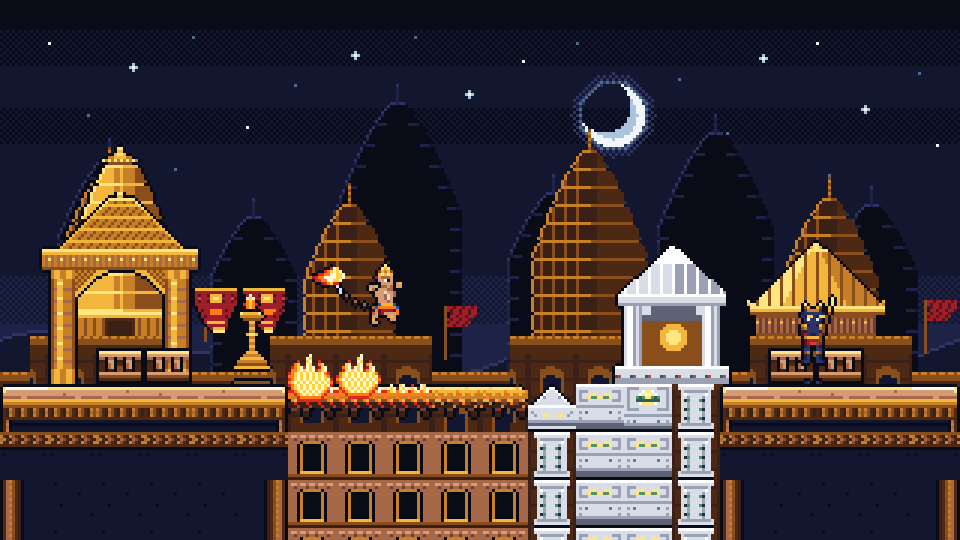
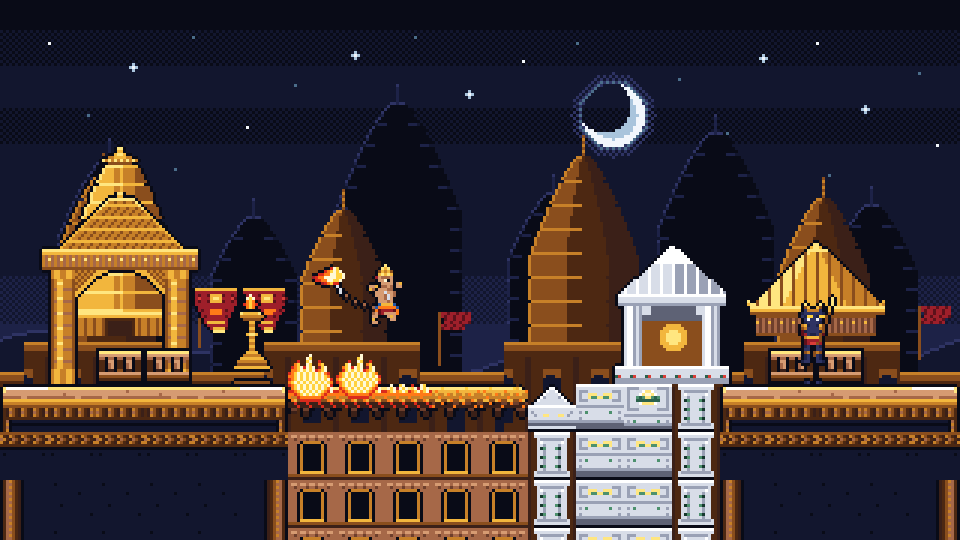
Replace pyramid level layout with Svarna Lanka palace terraces & pavilions

diff --git a/src/core/levelData.ts b/src/core/levelData.ts
@@ -20,11 +20,12 @@ const TILE_CHAR_MAP: Record<string, TileMaterial> = {
   'S': 'SACRED',
 };
 
-// 160 columns x 14 rows
-// Zone 1 (0-28): Palace Parapet Entry
-// Zone 2 (29-60): Banner Towers
-// Zone 3 (61-95): Archer Ridge
-// Zone 4 (96-122): Vibhishana's House & Ashoka Vatika
+// 160 columns x 14 rows — Clean horizontal Svarna Lanka terraces, 1-tile golden-eaved roofs,
+// hanging banner bridges, and moonlit marble/Ashoka sanctuary (matching ref_gameplay.png).
+// Zone 1 (0-28):   Palace Parapet Entry
+// Zone 2 (29-60):  Banner Towers
+// Zone 3 (61-95):  Archer Ridge
+// Zone 4 (96-122): Vibhishana's House & Ashoka Vatika (SACRED)
 // Zone 5 (123-159): Royal Armory Gauntlet & Sea-Cliff Exit
 
 const LEVEL_STRINGS: string[] = [
@@ -32,18 +33,18 @@ const LEVEL_STRINGS: string[] = [
   //0123456789012345678901234567890123456789012345678901234567890123456789012345678901234567890123456789012345678901234567890123456789012345678901234567890123456789
   '................................................................................................................................................................',
   '................................................................................................................................................................',
-  '.....................................................................................##.........SS..SS...............................................................', 
-  '....................#####..............##..BB..##.........##...............##.......####.......SSSSSSSS........##..BB..##.........................................', 
-  '.................###WWWWW###........####..BB..####.....####.............####.....##WWWW##...SS......SS.....####..BB..####.....####...............................', 
-  '..............###WWWWWWWWWWW###..###WWWW......WWWW###.#WWWW#.........#WWWW#..##WWWWWWWW##.S........S...##WWWW......WWWW##.##WWWW##.........##.................', 
-  '............##WWWWWWWWWWWWWWWW####WWWWWWWWWWWWWWWWWW##WWWWWWW##.....#WWWWWW###WWWWWWWWWWW#.S........S.##WWWWWWWWWWWWWWWW##WWWWWWWW###...####..BB..............', 
-  '..........##WWWWWWWWWWWWWWWWWWWWWWWWWWWWWWWWWWWWWWWWWWWWWWWWWWW##.##WWWWWWWWWWWWWWWWWWWWWW#S........S#WWWWWWWWWWWWWWWWWWWWWWWWWWWWWWWW###WWWW..BB..............', 
-  '........##WWWWWWWWWWWWWWWWWWWWWWWWWWWWWWWWWWWWWWWWWWWWWWWWWWWWWWW##WWWWWWWWWWWWWWWWWWWWWWWWSSSSSSSSSSSWWWWWWWWWWWWWWWWWWWWWWWWWWWWWWWWWWWWWWWW......BB..........', 
-  '......##WWWWWWWWWWWWWWWWWWWWWWWWWWWWWWWWWWWWWWWWWWWWWWWWWWWWWWWWWWWWWWWWWWWWWWWWWWWWWWWWWWW########WWWWWWWWWWWWWWWWWWWWWWWWWWWWWWWWWWWWWWWWWWWW......BB..........', 
-  '....##WWWWWWWWWWWWWWWWWWWWWWWWWWWWWWWWWWWWWWWWWWWWWWWWWWWWWWWWWWWWWWWWWWWWWWWWWWWWWWWWWWWW..........WWWWWWWWWWWWWWWWWWWWWWWWWWWWWWWWWWWWWWWWWWWWWW......BB......', 
-  '..####WWWWWWWWWWWWWWWWWWWWWWWWWWWWWWWWWWWWWWWWWWWWWWWWWWWWWWWWWWWWWWWWWWWWWWWWWWWWWWWWWWWW..........WWWWWWWWWWWWWWWWWWWWWWWWWWWWWWWWWWWWWWWWWWWWWWWWWW....BB..##', 
-  '####################################################################################################################################WWWWWWWWWWWWWWWWWW......##', 
-  '################################################################################################################################################################', 
+  '................................................................................................................................................................',
+  '................................................................................................................................................................',
+  '.........................................BBBBBB.........................BBBBBB...................................................BBBBBB.........................',
+  '...................WWWWWW..............##WWWWWW##.....WWWWWW..........##WWWWWW##....WWWWWW.....................................##WWWWWW##.....WWWWWW............',
+  '...................B....B..............B........B.....B....B..........B........B....B....B...........S.........S...............B........B.....B....B............',
+  '...................B....B.....WWWWWW...B........B..###WWWWWW###.......B........B..##WWWWWW##.......SSSSS.....SSSSS.......WWWWWWB........B..###WWWWWW###.........',
+  '...................B....B.....B....B.............###..........#.......#........#..#........#.........S.........S.........B....B#........#..#..........#.........',
+  '...................#....#.....B....B...#........#..#..........#WWWWWWW#........#..#........#WWWWWW...S.........S...WWWWWWB....B#........#..#..........#WWWWWW...',
+  '.........WWWWWWWWWW######.....#....#####.........###...........########........####........#######SSSSSSSSSSSSSSSSS######......#########..############......###.',
+  '#########..........######.....#...................................................................SSSSSSSSSSSSSSSSS..........................................###.',
+  '#########..........###############################################################################SSSSSSSSSSSSSSSSS##########################################.###.',
+  '#########..........###############################################################################SSSSSSSSSSSSSSSSS##########################################.###.',
 ];
 
 function parseLevelGrid(): TileMaterial[][] {
@@ -61,23 +62,23 @@ function parseLevelGrid(): TileMaterial[][] {
 }
 
 const ENEMY_SPAWNS: EnemySpawn[] = [
-  // Zone 2: First Guard patrol
-  { type: 'GUARD', tx: 38, ty: 5, patrolLeftTx: 34, patrolRightTx: 44 },
-  { type: 'GUARD', tx: 50, ty: 6, patrolLeftTx: 46, patrolRightTx: 56 },
+  // Zone 2: Guards patrolling terraces & towers (feet at ty + 1)
+  { type: 'GUARD', tx: 34, ty: 11, patrolLeftTx: 31, patrolRightTx: 38 },
+  { type: 'GUARD', tx: 54, ty: 6, patrolLeftTx: 51, patrolRightTx: 59 },
 
-  // Zone 3: Archers
-  { type: 'ARCHER', tx: 68, ty: 5, patrolLeftTx: 66, patrolRightTx: 72 },
-  { type: 'ARCHER', tx: 78, ty: 4, patrolLeftTx: 76, patrolRightTx: 82 },
-  { type: 'GUARD', tx: 85, ty: 5, patrolLeftTx: 82, patrolRightTx: 90 },
+  // Zone 3: Archers & Guard on ridge
+  { type: 'ARCHER', tx: 74, ty: 4, patrolLeftTx: 72, patrolRightTx: 77 },
+  { type: 'GUARD', tx: 66, ty: 11, patrolLeftTx: 62, patrolRightTx: 70 },
+  { type: 'ARCHER', tx: 86, ty: 6, patrolLeftTx: 84, patrolRightTx: 89 },
 
-  // Zone 4: Guards near sacred zone
-  { type: 'GUARD', tx: 95, ty: 3, patrolLeftTx: 92, patrolRightTx: 98 },
+  // Zone 4: Guard near entrance to Vibhishana's House (standing on row 9 awning)
+  { type: 'GUARD', tx: 94, ty: 8, patrolLeftTx: 92, patrolRightTx: 96 },
 
   // Zone 5: Gauntlet
-  { type: 'GUARD', tx: 130, ty: 6, patrolLeftTx: 126, patrolRightTx: 136 },
-  { type: 'ARCHER', tx: 138, ty: 5, patrolLeftTx: 136, patrolRightTx: 142 },
-  { type: 'GUARD', tx: 145, ty: 7, patrolLeftTx: 142, patrolRightTx: 150 },
-  { type: 'ARCHER', tx: 150, ty: 6, patrolLeftTx: 148, patrolRightTx: 154 },
+  { type: 'GUARD', tx: 132, ty: 4, patrolLeftTx: 129, patrolRightTx: 136 },
+  { type: 'ARCHER', tx: 147, ty: 6, patrolLeftTx: 144, patrolRightTx: 151 },
+  { type: 'GUARD', tx: 143, ty: 9, patrolLeftTx: 140, patrolRightTx: 148 },
+  { type: 'ARCHER', tx: 157, ty: 9, patrolLeftTx: 156, patrolRightTx: 158 },
 ];
 
 export function getLevel1(): LevelDef {
@@ -85,8 +86,8 @@ export function getLevel1(): LevelDef {
     cols: LEVEL_COLS,
     rows: LEVEL_ROWS,
     grid: parseLevelGrid(),
-    playerStartTx: 4,
-    playerStartTy: 10,
+    playerStartTx: 3,
+    playerStartTy: 11,
     exitTxMin: 156,
     exitTxMax: 159,
     enemies: ENEMY_SPAWNS,

diff --git a/src/game/scenes/PlayScene.ts b/src/game/scenes/PlayScene.ts
@@ -121,9 +121,9 @@ export class PlayScene extends Phaser.Scene {
   private buildDecorativeLandmarks(): void {
     const grid = this.levelDef.grid;
 
-    // ── Depth 25: Golden Shikhara Temples & Curved Golden Roof Domes behind terraces ──
+    // ── Depth 25: Golden Shikhara Temples & Curved Golden Roof Domes rising behind terraces ──
     const shikharas: [number, number][] = [
-      [10, 10], [21, 3], [43, 4], [55, 6], [71, 5], [89, 5], [133, 6], [149, 7],
+      [13, 10], [22, 10], [45, 10], [56, 12], [75, 9], [90, 10], [134, 10], [150, 12],
     ];
     for (const [tx, ty] of shikharas) {
       this.add.image(tx * TILE_SIZE, ty * TILE_SIZE, 'props_lanka', 'props_lanka 8.aseprite')
@@ -132,7 +132,7 @@ export class PlayScene extends Phaser.Scene {
     }
 
     const roofDomes: [number, number][] = [
-      [16, 10], [31, 6], [49, 6], [64, 5], [80, 4], [126, 6], [141, 6],
+      [5, 11], [34, 10], [66, 9], [85, 10], [126, 10], [142, 10],
     ];
     for (const [tx, ty] of roofDomes) {
       this.add.image(tx * TILE_SIZE, ty * TILE_SIZE, 'props_lanka', 'props_lanka 9.aseprite')
@@ -140,9 +140,39 @@ export class PlayScene extends Phaser.Scene {
         .setDepth(26);
     }
 
-    // ── Depth 30: Torana Archways, Balustrades, Pillars, Jali Windows & Sconces ──
+    // ── Depth 28: Carved supporting sandstone pillars under raised WOOD_ROOF pavilions ──
+    for (let ty = 4; ty < 11; ty++) {
+      for (let tx = 0; tx < this.levelDef.cols; tx++) {
+        if (grid[ty][tx] !== 'WOOD_ROOF') continue;
+        const leftW = tx > 0 ? grid[ty][tx - 1] : 'EMPTY';
+        const rightW = tx < this.levelDef.cols - 1 ? grid[ty][tx + 1] : 'EMPTY';
+        const isEdge = leftW !== 'WOOD_ROOF' || rightW !== 'WOOD_ROOF';
+        if (!isEdge) continue;
+
+        // Only place pillars if there is a solid STONE/SACRED floor below within rows ty+1..13
+        let floorTy = -1;
+        for (let py = ty + 1; py < this.levelDef.rows; py++) {
+          const m = grid[py][tx];
+          if (m === 'STONE' || m === 'SACRED') {
+            floorTy = py;
+            break;
+          }
+          if (m !== 'EMPTY' && m !== 'BANNER') break;
+        }
+        if (floorTy <= ty + 1) continue;
+
+        for (let py = ty + 1; py < floorTy; py++) {
+          const pCol = py === ty + 1 ? 2 : (py === floorTy - 1 ? 0 : 1);
+          this.add.image(tx * TILE_SIZE, py * TILE_SIZE, 'tileset_lanka', 4 * 16 + pCol)
+            .setOrigin(0, 0)
+            .setDepth(28);
+        }
+      }
+    }
+
+    // ── Depth 30: Torana Archways on open flat terraces & Stone Balustrade Railings ──
     const toranaPositions: [number, number][] = [
-      [2, 12], [58, 7], [123, 7],
+      [1, 11], [41, 10], [123, 10],
     ];
     for (const [tx, ty] of toranaPositions) {
       this.add.image(tx * TILE_SIZE, ty * TILE_SIZE, 'props_lanka', 'props_lanka 0.aseprite')
@@ -150,25 +180,16 @@ export class PlayScene extends Phaser.Scene {
         .setDepth(30);
     }
 
-    // Balustrade railings along open STONE parapet rooftops + jali windows & sconces on walls
+    // Balustrade railings along open flat STONE terraces (at least 3 wide)
     for (let ty = 1; ty < this.levelDef.rows; ty++) {
-      for (let tx = 0; tx < this.levelDef.cols; tx++) {
+      for (let tx = 6; tx < this.levelDef.cols - 5; tx++) {
         const mat = grid[ty][tx];
         const above = grid[ty - 1][tx];
-
-        if (mat === 'STONE' && above === 'EMPTY') {
-          // Place balustrade railing on flat stone roofs (skip enemy spawn spots & entry arch)
-          if (tx > 6 && tx < 154 && tx % 2 === 0 && (tx < 96 || tx > 112)) {
+        const left = grid[ty][tx - 1];
+        const right = grid[ty][tx + 1];
+        if (mat === 'STONE' && above === 'EMPTY' && left === 'STONE' && right === 'STONE') {
+          if (tx < 96 || tx > 119) {
             this.add.image(tx * TILE_SIZE, (ty - 1) * TILE_SIZE, 'tileset_lanka', 9)
-              .setOrigin(0, 0)
-              .setDepth(30);
-          }
-        }
-
-        // Hanging marigold vines along Ashoka Vatika & palace eaves
-        if ((mat === 'STONE' || mat === 'SACRED') && ty >= 3 && ty <= 6 && ty + 1 < this.levelDef.rows && grid[ty + 1][tx] === 'EMPTY') {
-          if (tx % 7 === 0) {
-            this.add.image(tx * TILE_SIZE, (ty + 1) * TILE_SIZE, 'tileset_lanka', 4 * 16 + 8)
               .setOrigin(0, 0)
               .setDepth(30);
           }
@@ -176,9 +197,9 @@ export class PlayScene extends Phaser.Scene {
       }
     }
 
-    // Standing brass diyas along parapets
+    // Standing brass diyas along terraces
     const diyaPositions: [number, number][] = [
-      [8, 12], [29, 6], [62, 5], [91, 4], [124, 6], [154, 11],
+      [7, 11], [27, 10], [64, 12], [93, 10], [125, 10], [154, 12],
     ];
     for (const [tx, ty] of diyaPositions) {
       const diya = this.add.sprite(tx * TILE_SIZE + 8, ty * TILE_SIZE, 'props_lanka')
@@ -187,14 +208,14 @@ export class PlayScene extends Phaser.Scene {
       diya.play('props_lanka:brass_diya');
     }
 
-    // Vibhishana's White Marble Sacred Shrine (Zone 4: cols 96..110)
-    this.add.image(99 * TILE_SIZE, 8 * TILE_SIZE, 'props_lanka', 'props_lanka 1.aseprite')
+    // Vibhishana's White Marble Sacred Shrine on the marble terrace (Zone 4: cols 96..118)
+    this.add.image(105 * TILE_SIZE, 10 * TILE_SIZE, 'props_lanka', 'props_lanka 1.aseprite')
       .setOrigin(0, 1)
       .setDepth(30);
 
     // Sea-Cliff Exit Torana Arch (Zone 5, foreground framing)
     const exitX = this.levelDef.exitTxMin * TILE_SIZE - 16;
-    const exitY = 12 * TILE_SIZE;
+    const exitY = 11 * TILE_SIZE;
     this.add.image(exitX, exitY, 'props_lanka', 'props_lanka 0.aseprite')
       .setOrigin(0, 1)
       .setDepth(80);
@@ -259,13 +280,14 @@ export class PlayScene extends Phaser.Scene {
     }
 
     if (mat === 'SACRED') {
-      // Top canopy/roof vs pillars & Ashoka foliage
-      if (ty <= 3) {
+      // Top Ashoka foliage canopies vs white marble terrace & lotus shrine base
+      if (ty <= 7) {
         if (left !== 'SACRED') return 3 * 16 + 4;  // Ashoka canopy L
         if (right !== 'SACRED') return 3 * 16 + 6; // Ashoka canopy R
         return 3 * 16 + 5;                         // Ashoka canopy M
       }
-      if (above === 'EMPTY') return 3 * 16 + 0;    // marble lotus roof
+      if (ty === 8 || ty === 9) return 3 * 16 + 7; // Ashoka tree trunk
+      if (ty === 10) return 3 * 16 + 0;            // marble lotus terrace top
       if (left !== 'SACRED' || right !== 'SACRED') return 3 * 16 + 1; // marble pillar
       return (tx + ty) % 3 === 0 ? 3 * 16 + 3 : 3 * 16 + 2; // lotus crest / floral plinth
     }
@@ -280,13 +302,6 @@ export class PlayScene extends Phaser.Scene {
       for (let tx = 0; tx < this.levelDef.cols; tx++) {
         const mat = this.levelDef.grid[ty][tx];
         if (mat === 'EMPTY') {
-          // Ground palace facade walls behind/under raised WOOD_ROOF pavilions so nothing looks like floating sticks
-          const above = ty > 0 ? this.levelDef.grid[ty - 1][tx] : 'EMPTY';
-          if (above === 'WOOD_ROOF' && ty >= 5 && ty <= 11) {
-            this.add.image(tx * TILE_SIZE, ty * TILE_SIZE, 'tileset_lanka', 8)
-              .setOrigin(0, 0)
-              .setDepth(28);
-          }
           rowArr.push(null);
           continue;
         }

diff --git a/scripts/revamp_art.py b/scripts/revamp_art.py
@@ -203,64 +203,60 @@ def build_bg_far_spires() -> None:
 
 def build_bg_mid_palace() -> None:
     """
-    Seamless 320x180 mid-ground darkened golden Svarna Lanka shikharas, curved roofs & banners.
-    Mean luminance strictly < 95 (capped at GOLD_SHADOW #8A4E1D / sparse GOLD_MID #C78028).
+    Seamless 320x180 mid-ground darkened golden Svarna Lanka shikharas & pavilions.
+    Clean architectural silhouettes matching ref_gameplay.png (no noisy waffle grid),
+    mean luminance strictly < 95.
     """
     w, h = 320, 180
     g = blank_grid(w, h, ".")
 
-    # Distant golden palace terrace & colonnade base across all 320px (period 80px)
+    # Distant palace colonnade & terracotta/amber terraces across all 320px (period 80px)
     for x in range(w):
         lx = x % 80
-        roof_y = 112 if (10 <= lx < 64) else 124
+        roof_y = 114 if (8 <= lx < 60) else 124
         for y in range(roof_y, h):
             if y == roof_y:
-                g[y][x] = "G" if lx % 3 != 0 else "g"
+                g[y][x] = "G"
             elif y < roof_y + 3:
                 g[y][x] = "g"
-            elif y < roof_y + 6:
+            elif y < roof_y + 5:
                 g[y][x] = "d"
             else:
-                # Pillared colonnade & warm recessed arches
                 px_mod = lx % 16
-                if roof_y + 10 <= y <= roof_y + 28 and 4 <= px_mod <= 11:
-                    arch_top = roof_y + 10 + abs(px_mod - 7) // 2
-                    if y >= arch_top:
-                        g[y][x] = "1" if (y > arch_top + 2 and 5 <= px_mod <= 10) else "g"
-                    else:
-                        g[y][x] = "d"
+                if roof_y + 9 <= y <= roof_y + 26 and 5 <= px_mod <= 10:
+                    arch_top = roof_y + 9 + abs(px_mod - 7) // 2
+                    g[y][x] = "1" if y >= arch_top + 2 else "g"
                 else:
-                    g[y][x] = "w" if (px_mod in (0, 15) or y % 6 == 0) else "d"
+                    g[y][x] = "w" if px_mod in (0, 15) else "d"
 
-    # Multi-tiered Kalinga / Dravidian Golden Shikharas every 80px (x=36, 116, 196, 276)
-    for tower_cx, top_y, bw in [(36, 56, 36), (116, 68, 30), (196, 50, 38), (276, 66, 32)]:
-        # Kalasha finial spire
+    # Multi-tiered Kalinga / Dravidian Golden Shikharas every 80px (clean sculpted silhouettes)
+    for tower_cx, top_y, bw in [(34, 58, 34), (114, 70, 28), (194, 52, 36), (274, 66, 30)]:
         for ky in range(top_y - 7, top_y):
             g[ky][tower_cx % w] = "G" if ky % 2 == 0 else "g"
-        # Stepped ribbed shikhara tiers
-        for y in range(top_y, 112):
+        for y in range(top_y, 114):
             dy = y - top_y
-            half = min(bw // 2, int(2 + (dy ** 0.72) * 1.35))
-            tier_notch = (dy % 6 == 0)
+            half = min(bw // 2, int(2 + (dy ** 0.72) * 1.32))
+            tier_notch = (dy % 8 == 0)
             if tier_notch and dy > 4:
                 half = max(2, half - 1)
             for dx in range(-half, half + 1):
                 px_x = (tower_cx + dx) % w
-                rib = (abs(dx) % 4 == 0)
-                if dx == -half or tier_notch:
-                    g[y][px_x] = "G" if dx <= 0 else "g"
-                elif dx == half:
-                    g[y][px_x] = "d"
-                elif rib and dx < 0:
+                if dx == -half:
+                    g[y][px_x] = "G"
+                elif tier_notch and dx < 0:
+                    g[y][px_x] = "G"
+                elif dx <= -half // 3:
                     g[y][px_x] = "g"
+                elif dx < half // 2:
+                    g[y][px_x] = "d"
                 else:
-                    g[y][px_x] = "d" if dx > 2 else "w"
+                    g[y][px_x] = "w"
 
-    # Distant muted crimson palace banners waving from poles
-    for bx, by_top in [(68, 96), (148, 102), (228, 94), (308, 100)]:
+    # Distant muted crimson palace banners waving from thin poles
+    for bx, by_top in [(66, 98), (146, 104), (226, 96), (306, 102)]:
         for y in range(by_top, by_top + 18):
             g[y][bx % w] = "g"
-        for dy in range(7):
+        for dy in range(6):
             sway = 1 if dy in (2, 3) else 0
             span = 11 - dy // 2
             for dx in range(1, span):
